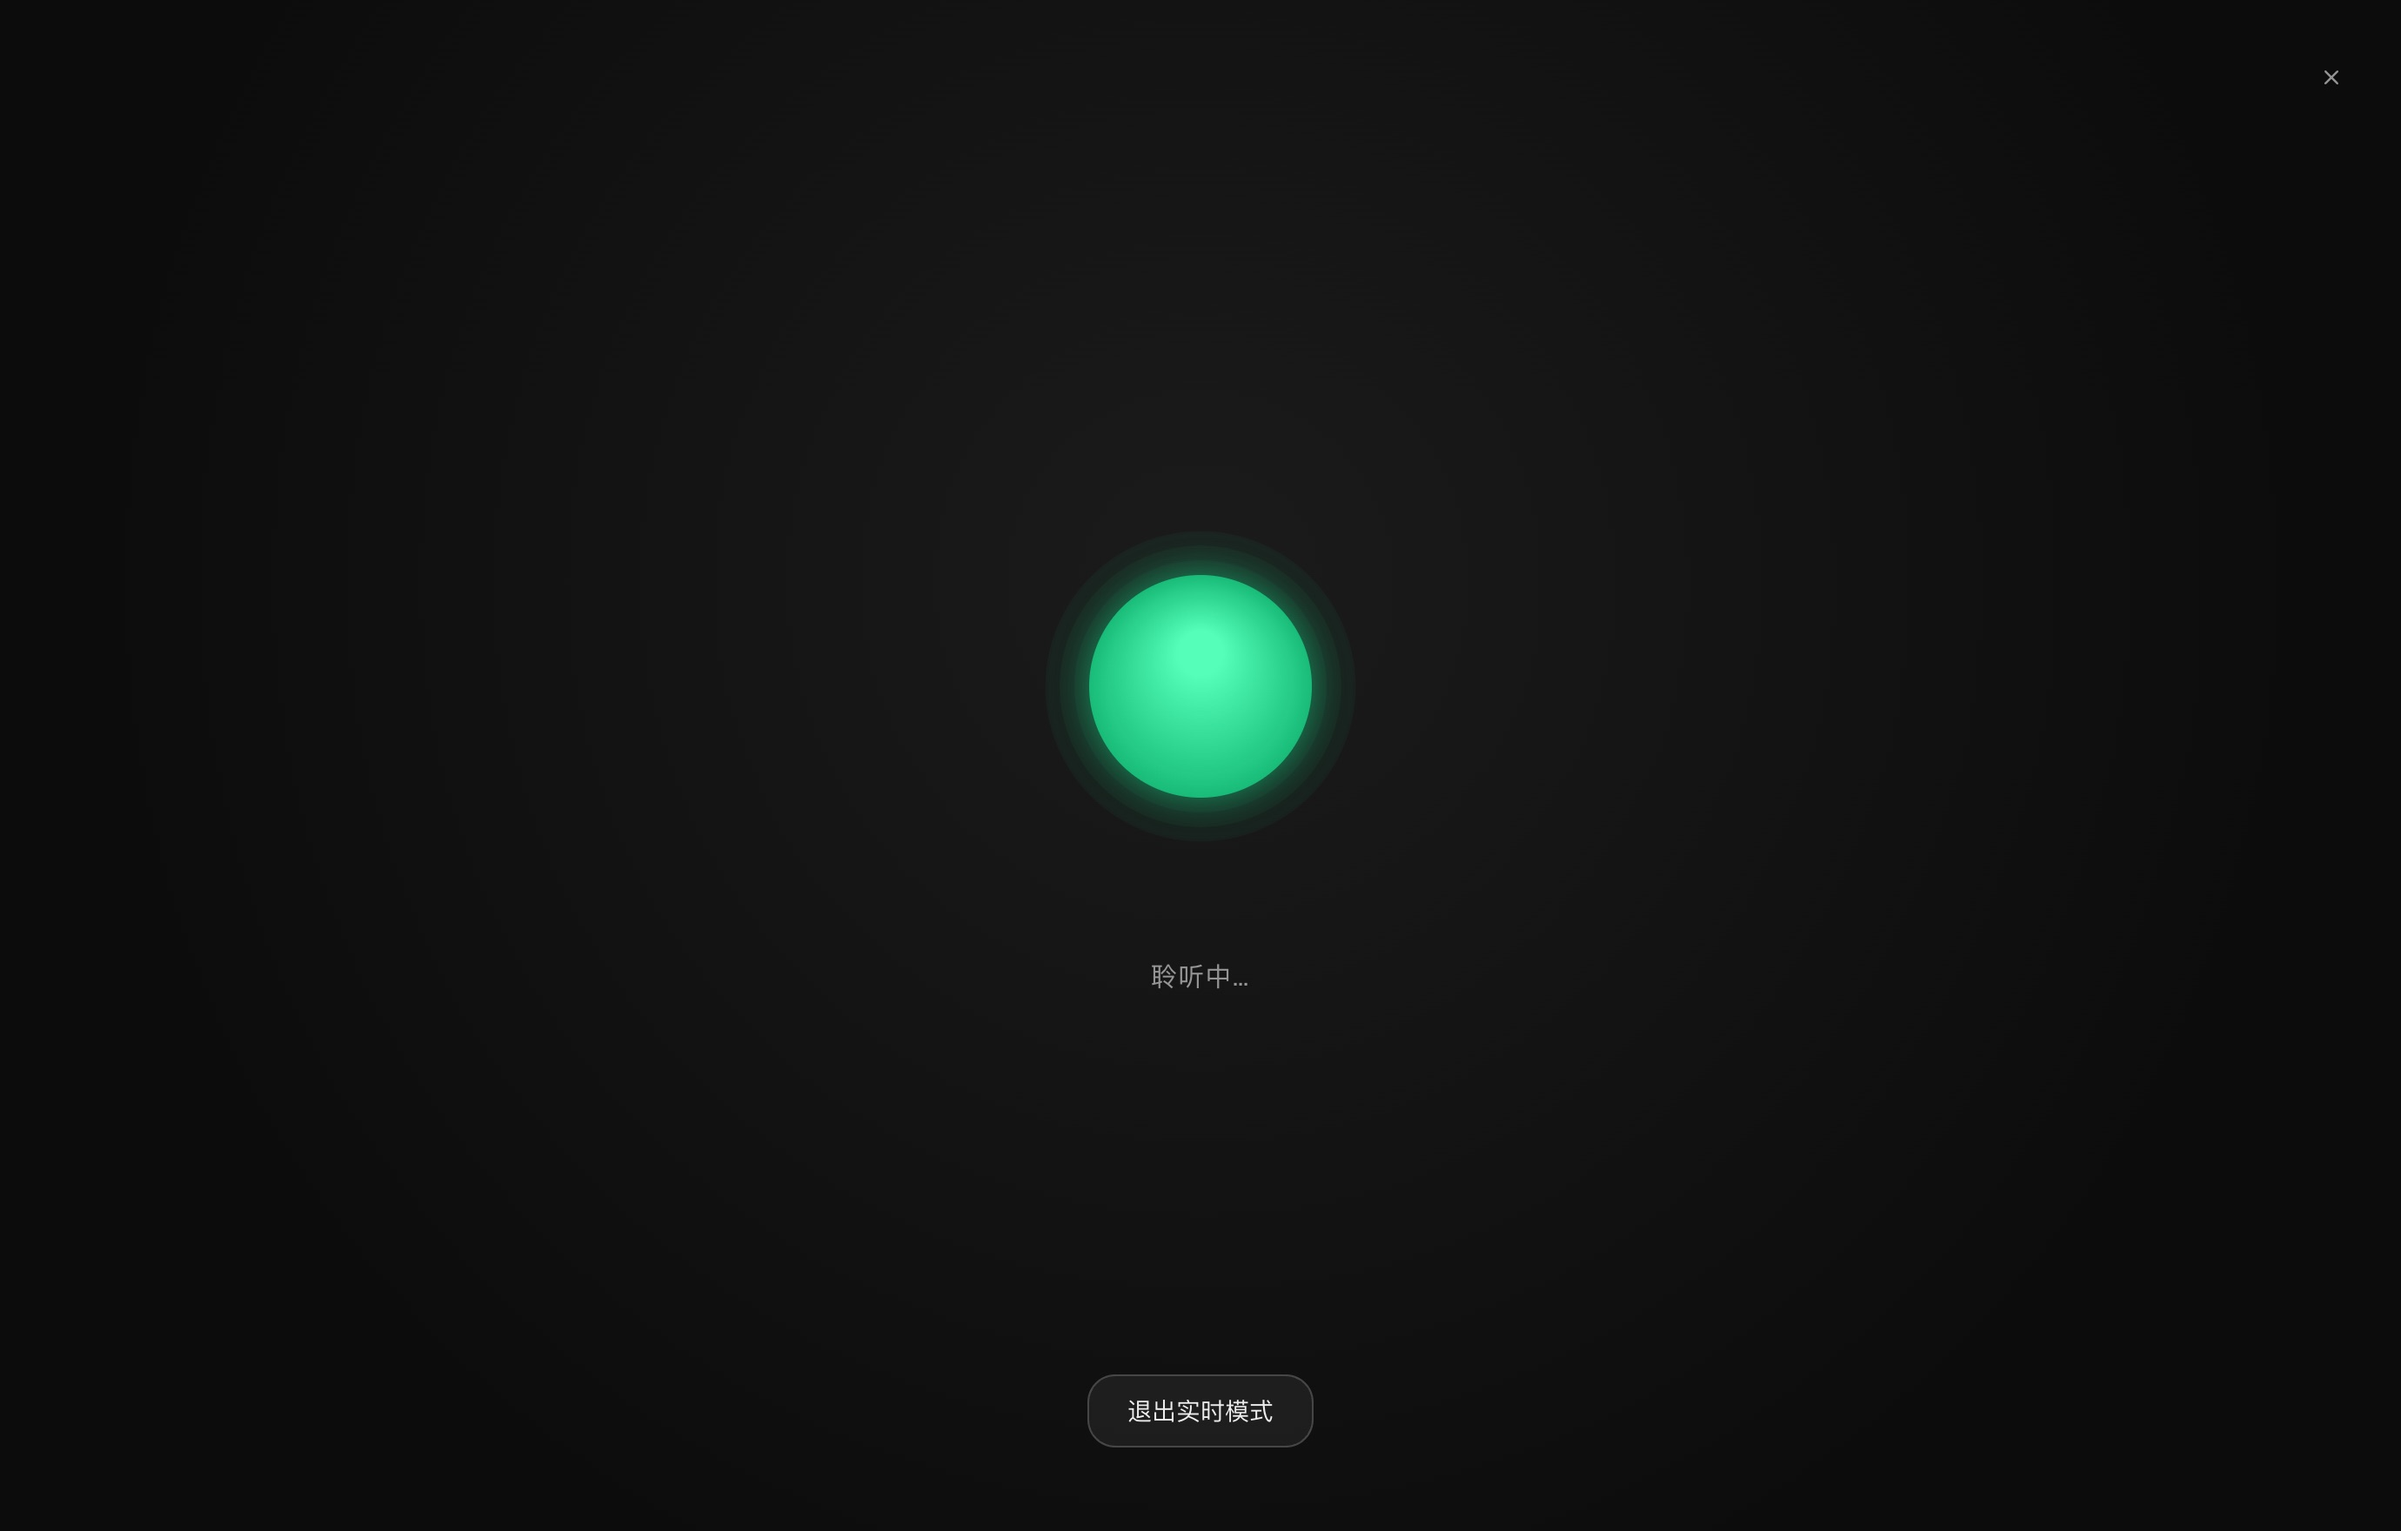
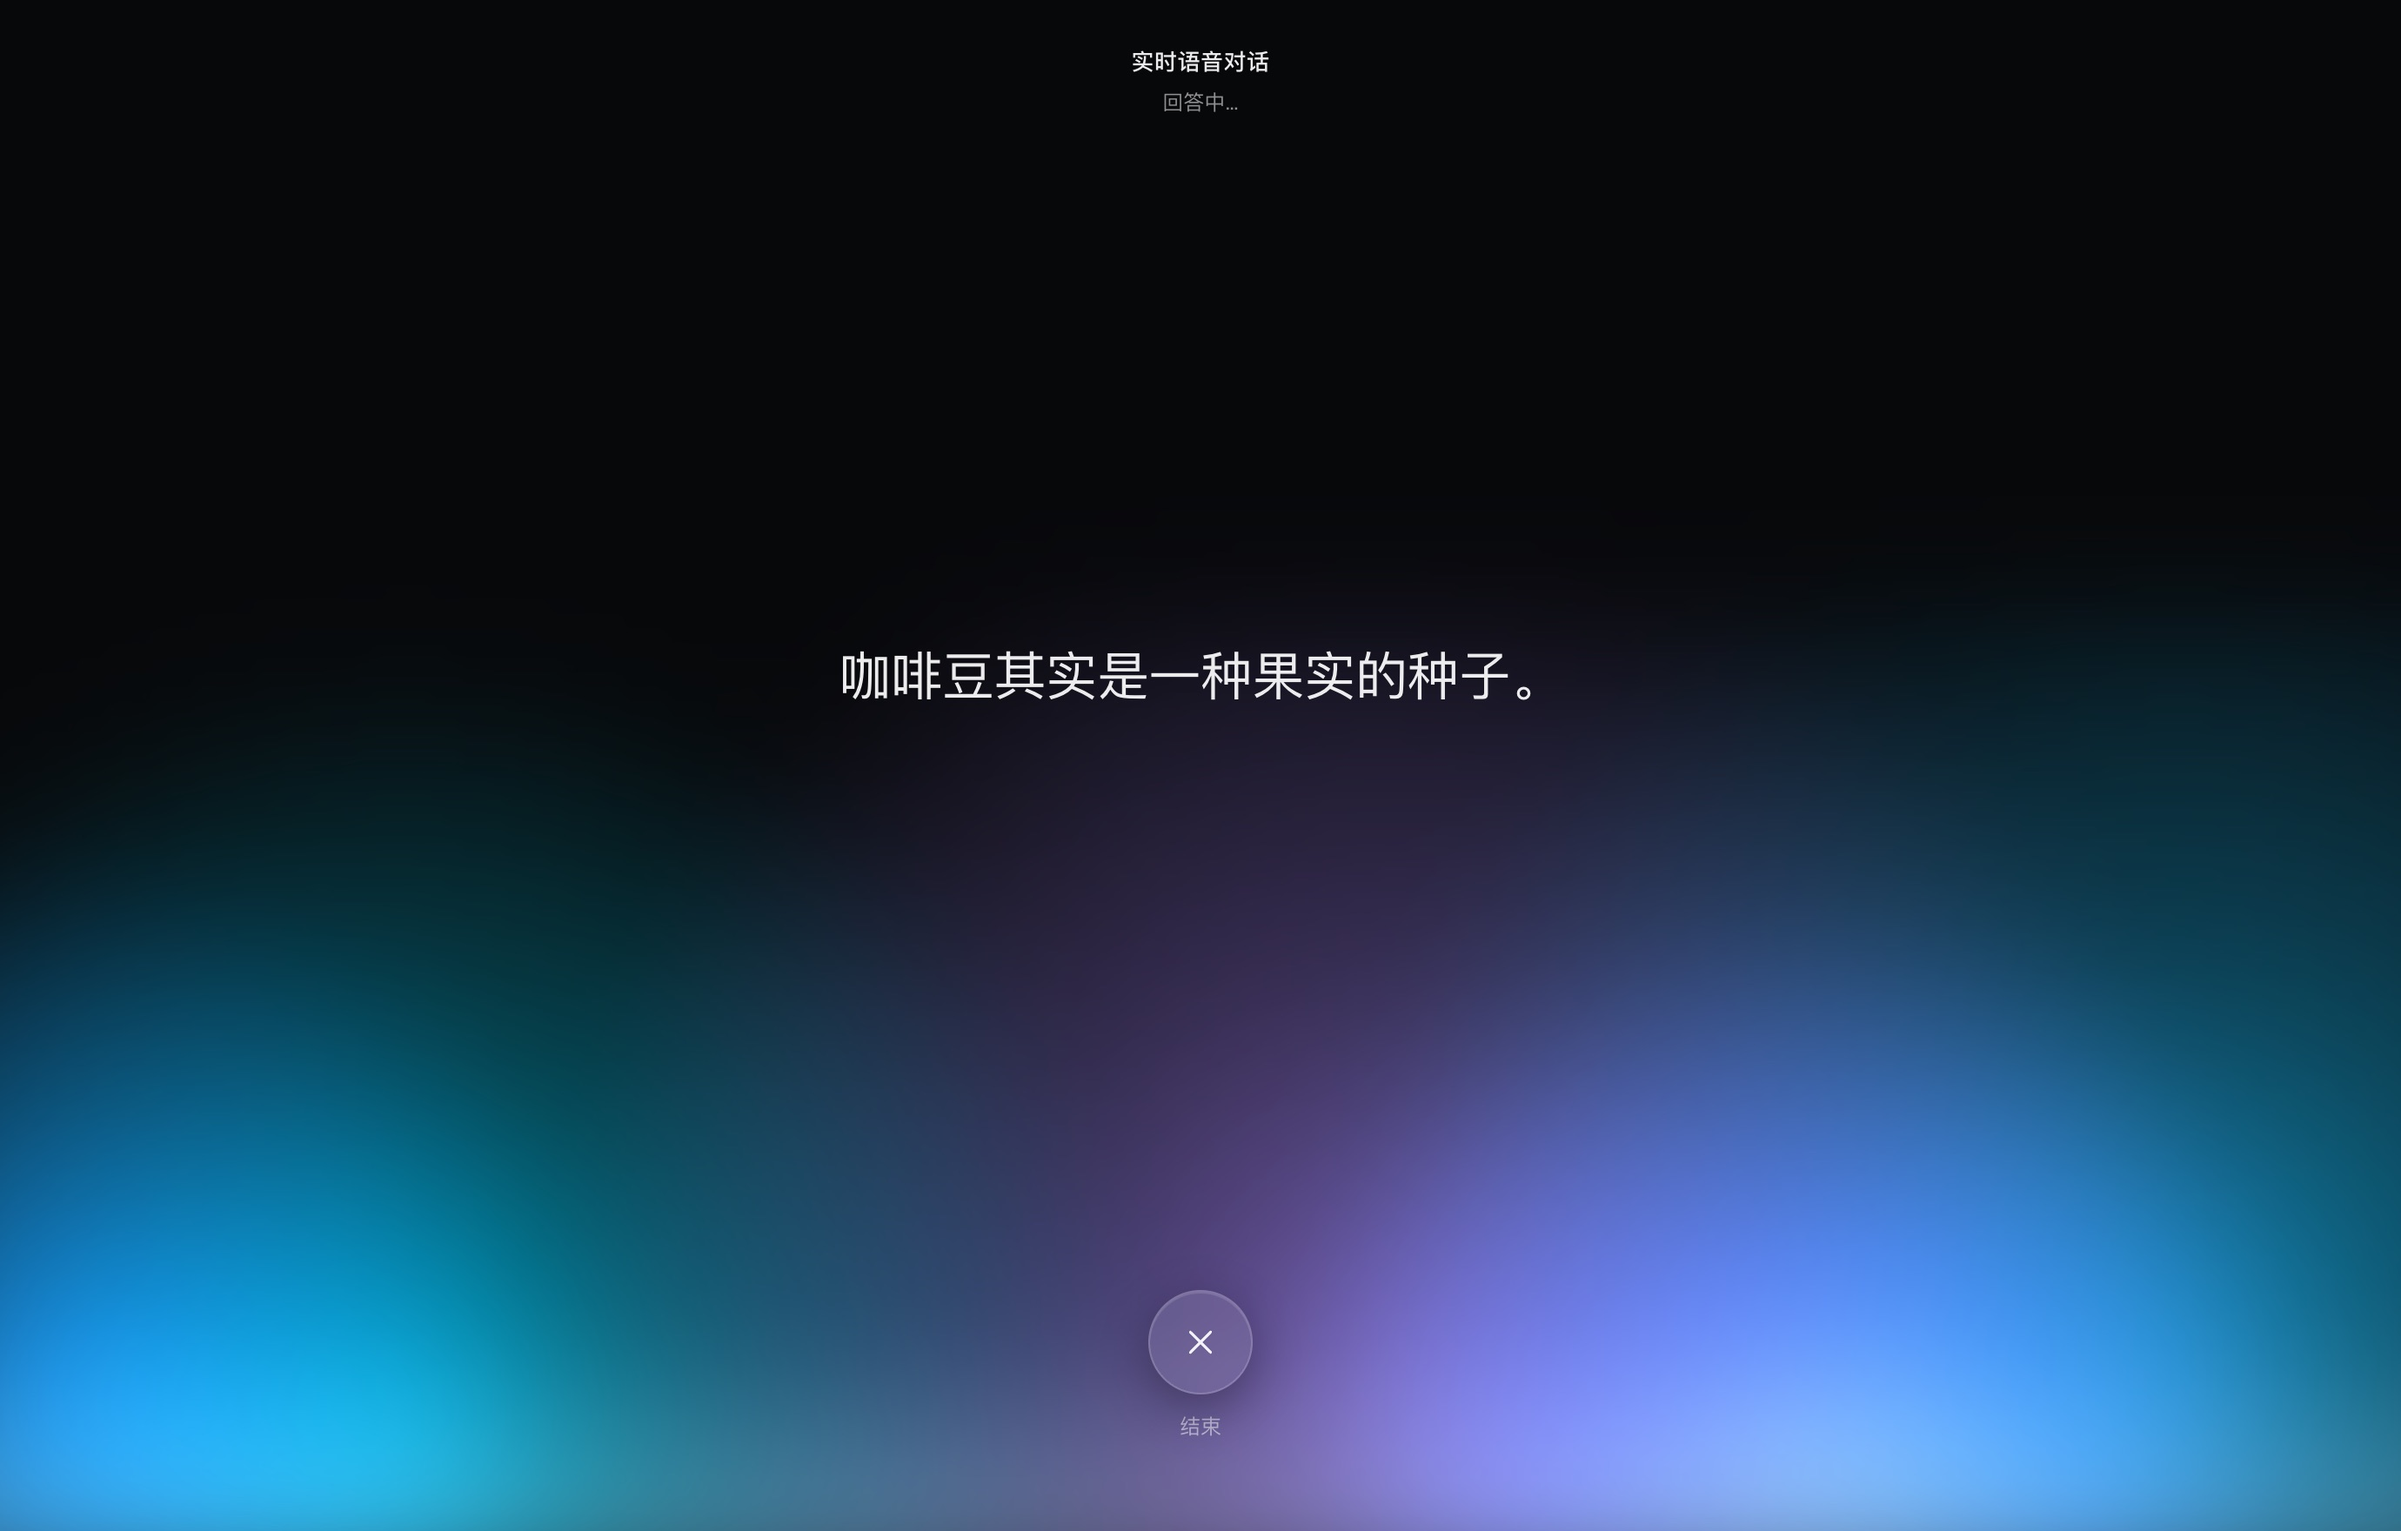
docs: issue #20 fixes in the changelog, and Live mode's new look

diff --git a/CHANGELOG.md b/CHANGELOG.md
@@ -183,6 +183,16 @@
 - Knowledge-base keyword search indexes every script — kana, Cyrillic,
   accented Latin, Indic marks, full-width letters.
 
+- **Several conversations deleted at once.** The tick box at the end of the
+  sidebar's search (or a Ctrl/⌘-click) starts a selection, Shift-click ticks
+  a run, and one confirmation deletes them all (#20).
+
+- **Scrolling up while a reply is written stops following at once.** The
+  transcript was pinned to the bottom with a smooth scroll on every frame, and
+  a wheel-up lost to the glide still heading down — it took several turns of
+  the wheel to get away (#20). The reply is pinned instantly now, and a
+  wheel-up stops any glide in flight.
+
 ### Settings
 
 - **Regrouped.** General and Appearance; Chat, Knowledge base and Voice;
@@ -207,6 +217,23 @@
   image studio's pickers were the OS's — and open upward when there is no
   room below.
 
+- **Edges that line up.** The working area stands the same distance from the
+  frame on every side, its top level with the sidebar's first control, and the
+  sidebar's footer rule that stopped at its edge is gone. Corners are smaller
+  — cards and menus 10 px, panels and fields 8 px — with the composer and the
+  pills left round. The title bar's model chip and mode switch and the
+  sidebar's fields take the panel's tone instead of fading into the frame, and
+  menus stand off the page, the cream palette's by a step more (#20).
+
+- **A narrow window keeps its buttons.** The title bar gives way at the
+  model's name, and below 900 px the mode switch keeps only its icons; on
+  Windows, minimize, maximize and close were pushed out of the window (#20).
+
+- **Live mode, redrawn.** In place of the green orb, a band of soft light
+  along the bottom follows the conversation — rising with your voice while it
+  listens, drifting while it thinks, brightening with its own voice as it
+  answers — under the reply as a large caption, with one round button to end.
+
 ### Reliability
 
 - Two models could load at once: one load at a time now, front and back.
@@ -228,6 +255,13 @@
   thread and froze the window.
 - Windows: console output that is not UTF-8 is read with the machine's own
   code page.
+- A voice model downloading on a slow line could only be waited out: its bar
+  now says which model is coming and its × stops it. A stretch without Chinese
+  inside a Chinese reply no longer fetches the English voice (300 MB from
+  GitHub) to read a few words, which read as the Chinese voice downloading
+  again (#20).
+- The window could not be moved while a model downloaded, and a dialog's
+  backdrop covered the window buttons on Windows (#20).
 
 ## v2.2.2 — While it runs (2026-09-17)
 

diff --git a/README.pt-BR.md b/README.pt-BR.md
@@ -118,7 +118,7 @@ Arraste PDFs, arquivos do Word, apresentações, planilhas, Markdown ou código.
 
 O modo Live é uma conversa sem as mãos: o Whisper escuta, o modelo responde e uma voz local lê a resposta frase por frase — em inglês ou chinês. A fala roda na CPU, então nunca disputa a memória da GPU com o modelo. O silêncio envia sua vez; qualquer resposta pode ser lida em voz alta.
 
-<img src="docs/screenshots/shot-live.jpg" width="860" alt="Modo Live do Chaty: uma esfera luminosa ouvindo, com um botão para sair do modo Live" />
+<img src="docs/screenshots/shot-live.jpg" width="860" alt="Modo Live do Chaty: a resposta como legenda sobre uma faixa suave de luz, com o botão para encerrar" />
 
 ## Feito para o que modelos pequenos erram
 

diff --git a/README.md b/README.md
@@ -118,7 +118,7 @@ Drop in PDFs, Word files, slides, spreadsheets, Markdown or code. Chaty indexes 
 
 Live mode is a hands-free conversation: Whisper listens, the model answers, and a local voice reads the reply back sentence by sentence — in English or Chinese. Speech runs on the CPU, so it never competes with the model for GPU memory. Silence sends your turn; any answer can be read aloud.
 
-<img src="docs/screenshots/shot-live.jpg" width="860" alt="Chaty's Live mode: a glowing orb listening, with a button to leave live mode" />
+<img src="docs/screenshots/shot-live.jpg" width="860" alt="Chaty's Live mode: the reply as a caption over a soft band of light, with the button to end" />
 
 ## Built around what small models get wrong
 

diff --git a/README.zh-CN.md b/README.zh-CN.md
@@ -118,7 +118,7 @@
 
 实时对话模式完全不用动手：Whisper 听你说，模型回答，本地语音一句一句读出来——中文英文都行。语音在 CPU 上运行，不和模型抢显存。你一停下这一句就发出去；任何回答都能朗读。
 
-<img src="docs/screenshots/shot-live-zh.jpg" width="860" alt="Chaty 实时对话模式：发光的圆球正在聆听，下方是退出按钮" />
+<img src="docs/screenshots/shot-live-zh.jpg" width="860" alt="Chaty 实时对话模式：回答以字幕显示，底部是一片随声音起伏的柔光，下方是结束按钮" />
 
 ## 专门对付小模型会犯的错
 
